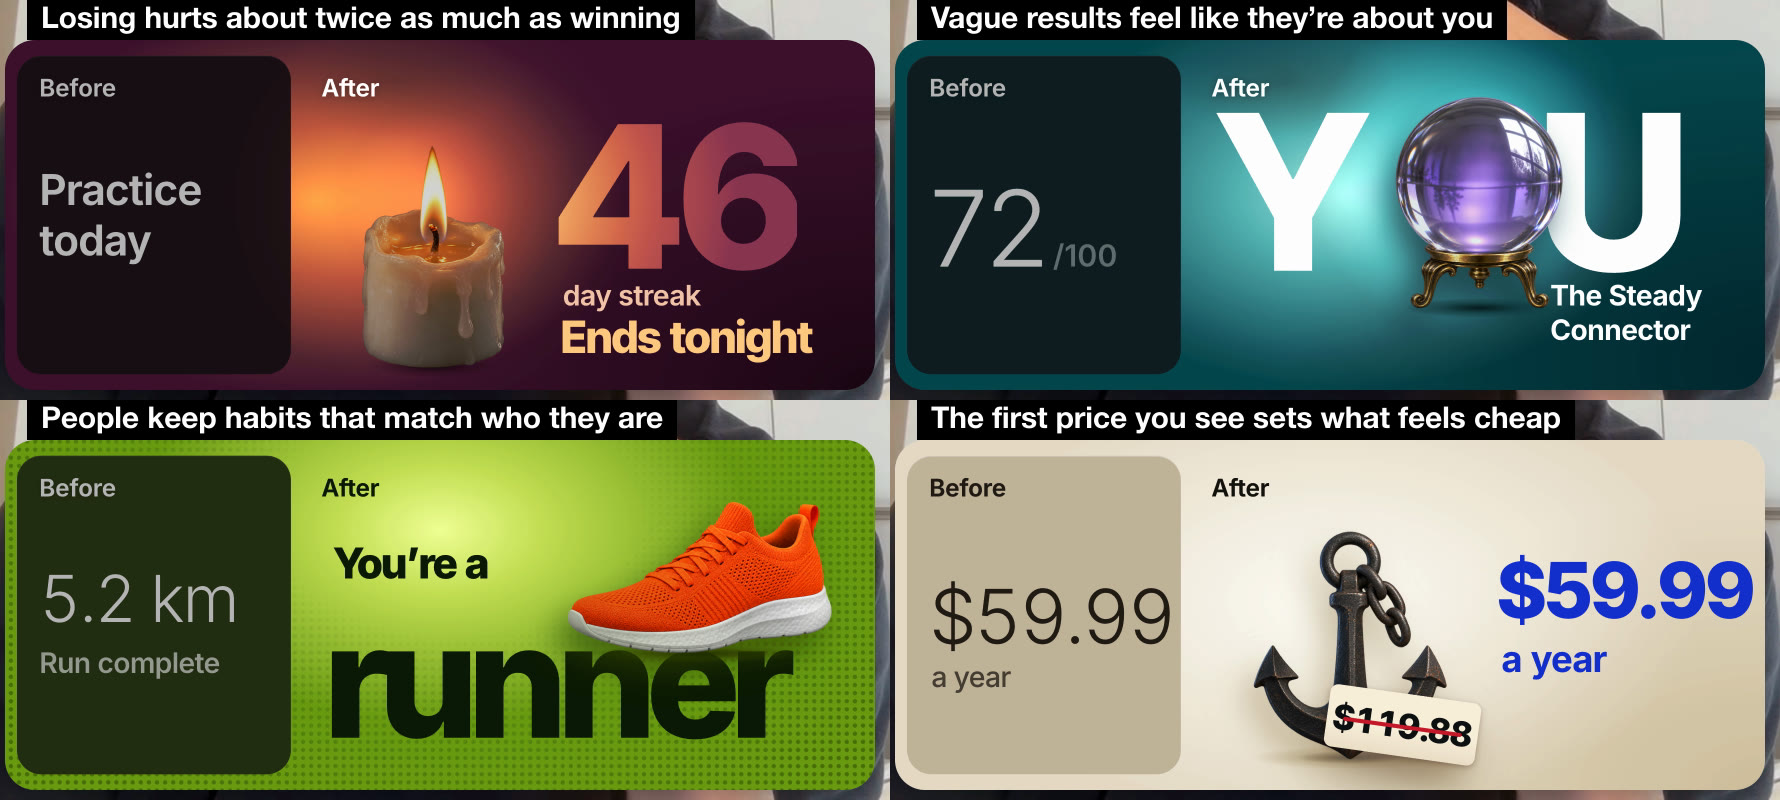
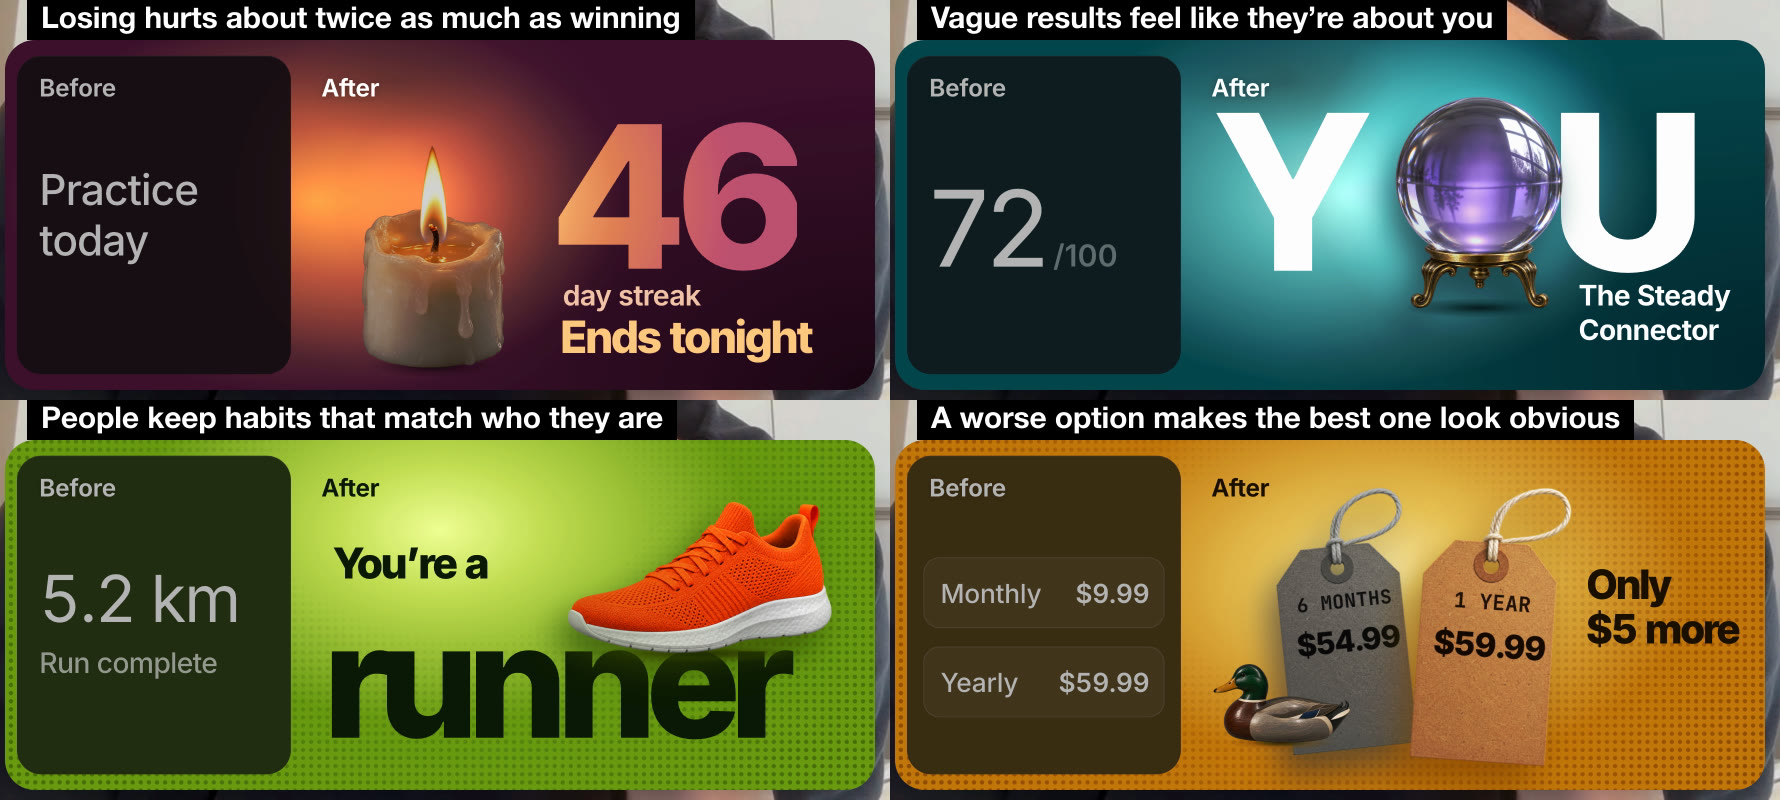
charles-studio-explainers: objects instead of UI widgets, and a second type voice
Round 5 on the 20 psychology principles cards. Never a UI widget on the studio side: a checklist becomes a
receipt that prints, a leaderboard becomes game pieces on steps, plan rows become kraft price tags, and a share
button becomes an enamel pin. Numbers get thin, dot-matrix or mono type, while the Before stays plain regular
weight on a tile that's dark on every card. Also: measure what you place things on, and measure gradient and
dot-matrix type from pixels, since words.mjs can't. Round 5 scored 4 for closeness, so the hill-climb notes
now say when a shared frame has hit its ceiling.

diff --git a/skills/editing/charles-studio-explainers/kit/studio.js b/skills/editing/charles-studio-explainers/kit/studio.js
@@ -109,15 +109,16 @@
       const m = `radial-gradient(64% 105% at ${htAt || f.at}, transparent 30%, #000 92%)`;
       div(card, { x: 0, y: 0, w: W, h: H, style: { backgroundImage: `radial-gradient(circle, ${halftone} 0 1.9px, transparent 2.4px)`, backgroundSize: '8px 8px', maskImage: m, webkitMaskImage: m } });
     }
-    const tile = f.cream ? '#ddd2bf' : `color-mix(in oklch, ${f.deep} 62%, rgb(52 54 60))`;
-    const b = L.B(card, 18, 18, beforeW, H - 36, { r: 24, bg: tile, style: { overflow: 'hidden', boxShadow: `inset 0 1px 0 rgb(255 255 255 / ${f.cream ? 0.5 : 0.1})` } });
-    const bk = f.cream ? '#29231c' : '#fff';
+    // dark on every card, cream included: viewers learn "dark box = Before" (round 5's critic)
+    const tile = f.cream ? '#3b342c' : `color-mix(in oklch, ${f.deep} 62%, rgb(52 54 60))`;
+    const b = L.B(card, 18, 18, beforeW, H - 36, { r: 24, bg: tile, style: { overflow: 'hidden', boxShadow: 'inset 0 1px 0 rgb(255 255 255 / 0.1)' } });
+    const bk = '#fff';
     const lab = (p, x, y, text, c) => L.T(p, x, y, text, { size: 24, weight: 650, color: c, style: c === '#fff' ? { textShadow: '0 1px 8px rgb(0 0 0 / 0.25)' } : {} });
     lab(b, 22, 18, 'Before', bk);
     // a soft shade behind the After label keeps white type readable however bright the world is; dark ink needs none
     if (!f.ink) div(card, { x: beforeW - 8, y: -10, w: 220, h: 110, style: { background: 'radial-gradient(closest-side, rgb(0 0 0 / 0.16), transparent)' } });
     lab(card, beforeW + 48, 36, 'After', f.ink || '#fff');
-    const shade = L.B(b, 0, 0, beforeW, H - 36, { bg: f.cream ? 'rgb(70 50 30 / 0.1)' : 'rgb(0 0 0 / 0.22)', r: 24, style: { opacity: 0, zIndex: 3 } });
+    const shade = L.B(b, 0, 0, beforeW, H - 36, { bg: 'rgb(0 0 0 / 0.22)', r: 24, style: { opacity: 0, zIndex: 3 } });
     L.grain(card, W, H, f.cream ? 0.26 : 0.34, 'overlay').style.zIndex = 30;
     return { b, bk, tick: (t) => { shade.style.opacity = L.P(t, 0.12, 0.34).toFixed(3); } };
   };

diff --git a/skills/editing/charles-studio-explainers/references/craft.md b/skills/editing/charles-studio-explainers/references/craft.md
@@ -19,15 +19,19 @@ The studio look, rule by rule, with the numbers that worked on the 20 Psychology
   | Endowed progress | A printed practice card of ten stamps | The first two are already inked |
   | Barnum effect | A crystal ball | It stands in for the O in a giant YOU |
   | Identity-based habits | A running shoe | It lands on the word "runner", set huge as the ground |
-  | Social currency | An instant photo | It ejects and develops "Top 2%" in its window |
+  | Social currency | An enamel TOP 2% pin | It drops in, clicks down and a glint runs across it: "You'd post this" |
+  | Reciprocity | A kraft gift | Its lid pops off and the score rises out of the box |
+  | Labor illusion | A thermal receipt | It prints up out of the card's edge, a line of work at a time, ending on "Your plan" |
+  | Curiosity gap | A card in an envelope | It slides halfway out: one name shows, the next is cut off by the envelope |
+  | Social comparison | Meeples on numbered steps | You hop up to the step just below the person above you |
 
-- **The test:** someone could describe the card to a friend in one sentence. If the sentence is "a nicer screen", there's no idea yet.
-- **Where no object fits** (a percentage, a leaderboard), make the UI itself a material instead: glass tubes that fill with liquid, glass rows over a photographed medal.
+- **The test:** someone could describe the card to a friend in one sentence. If the sentence is "a nicer screen", there's no idea yet. And the After must change the thing the principle changes: round 5's alarm clock answered "Daily reminder" with a louder reminder, when the principle (implementation intentions) is about adding a time and a place.
+- **Never a UI widget in the After.** A checklist, a leaderboard, price rows, a score card, a share pill or a frosted panel is what Claude builds by default, so on the studio side it reads as the default (round 4's critic). Turn it into the object it stands for: the checklist into a receipt that prints, the leaderboard into game pieces on steps, plan rows into price tags, a share button into a pin you'd wear.
 
 ## The stage
 
 - **The card:** 870x350, radius 30, with the scene as its own background (no white frame). The black tab sits on its top-left edge, inset 22 px, in Helvetica Neue Bold 30. On a long line the tab covers the whole top edge, so objects at rest bleed off the bottom or the right edge, never the top: round 3's anchor ring, cut flat at the top, read as the tab slicing it. Bring moving things in from the right or the bottom too (the running shoe comes in toe first from the right); only a fast drop comes through the top.
-- **Before:** a flat tile at x 18, y 18, 270 wide, in the card's own colour: `color-mix(in oklch, <deep> 62%, rgb(52 54 60))`, or warm grey `#ddd2bf` on cream, with a hairline highlight. It holds one element, what Claude builds by default, in plain Inter at 26 px or more: a bare number, one button, a short list. As the After plays, it dims to about 78%. A graphite block on every colour read as a dead black third (round 2), and three toasts or a stats list was more than a 1.4 s read allows (round 3).
+- **Before:** a flat tile at x 18, y 18, 270 wide, in the card's own colour: `color-mix(in oklch, <deep> 62%, rgb(52 54 60))`, or warm dark brown `#3b342c` on cream, with a hairline highlight. It's dark on every card: viewers learn "dark box = Before", and a light tan tile on the cream cards reversed it (round 5's critic). It holds one element, what Claude builds by default, in plain Inter at 26 px or more: a bare number, one button, a short list. As the After plays, it dims to about 78%. A graphite block on every colour read as a dead black third (round 2), and three toasts or a stats list was more than a 1.4 s read allows (round 3).
 - **The labels:** "Before" and "After" in Inter 650 at 24 px, on one line at y 36: chrome the viewer learns by position. At 32 px they were as loud as the tab (round 3).
 - **After:** the rest of the card, from x about 318. Nothing may cross the "After" label, so start the After's content at y 76 or below near x 316-420. Keep every word 40 px inside the card's edges, and keep the payoff (the prize, the seal) whole.
 - **Words:** the After says its point in three words or fewer ("Built by you", "Fresh start", "See who else"), and some of its words are on screen by 0.3 s. Round 3 had 20-30 words a card, and five cards showed an object and no words at 0.3 s.
@@ -46,7 +50,7 @@ The studio look, rule by rule, with the numbers that worked on the 20 Psychology
   - Put the light on the object (the After's centre-left, `at` about '46% 58%') and let the deep colour fall in behind the type on the right (`deepAt` '100% 92%').
   - Mix the base toward its deep colour (`color-mix(in oklch, mid 64%, deep)`).
   - On a naturally bright family (mustard, chartreuse), use dark ink for the After's words and label instead (`{ deepAt: null, ink }`).
-  - Then run the explainer kit's `words.mjs --only <ids> --times 0.6,1.2`. Every must-read word passes 4.5:1, or it isn't done. The first round-3 pass, lit from the upper right behind the type, put most white headlines at 2-4:1.
+  - Then run the explainer kit's `words.mjs --only <ids> --times 0.6,1.2`. Every must-read word passes 4.5:1, or it isn't done. It can't measure two effects, so measure those from the pixels instead: a gradient clipped to the glyphs (it reads 1:1), and dot-matrix type (it averages the dots with the gaps, reading 4.37:1 for dots that sit at 9.5:1). The first round-3 pass, lit from the upper right behind the type, put most white headlines at 2-4:1.
 - **Light every object (`L.obj`).** A photo cut out and set on a gradient reads as a stock PNG: round 3's critic called "nothing sits in light" the most wrong note. So each object gets:
   - the world's light colour on its lit side and the world's deep colour on its far side, both masked to its own shape (soft-light and multiply);
   - a cast shadow on the backdrop, down and to the left, since every prompt puts the key light upper right;
@@ -65,6 +69,7 @@ The studio look, rule by rule, with the numbers that worked on the 20 Psychology
 
 - **The principle's words are the biggest type on the card:** Inter Tight 800 at 40-104 px, tracked -0.045em ("46-day streak", "$0.16 a day", "You're a runner now").
 - **Before copy is plain Inter:** 300 for big numbers, 600-650 for headings. It should look like the default it is.
+- **Give numbers a second voice:** thin numerals (Inter 250) for prices and gaps, dot-matrix (Doto) for scores and counters, and mono (JetBrains Mono) for small print on receipts, tickets and tags. Keep the Befores in plain regular weight (400-500), so the refined type belongs to the After. Round 4's critic found one bold sans everywhere and the thin numerals all on the plain side. Skip the serif with an italic accent word: it's one of Tobi's four default looks.
 - **Use dot-matrix type (Doto) only at 48 px or more.** At 24 px it reads as noise.
 - **Measure every line against its box before you trust it.** The first passes clipped "/mo", "a day" and a countdown at the card's edge.
 

diff --git a/skills/editing/charles-studio-explainers/SKILL.md b/skills/editing/charles-studio-explainers/SKILL.md
@@ -35,6 +35,8 @@ Load it first. Its contract wins on everything it covers, and this skill only ad
    - an instant photo developing for social currency.
 
    Say the card in one sentence before building it. If you can't, there's no idea yet.
+
+   Never put a UI widget on the studio side (a checklist, a leaderboard, price rows, a score card, a share pill). Turn it into the object it stands for: a receipt that prints, game pieces on numbered steps, kraft price tags, an enamel pin you'd wear. Why: round 4's critic read those widgets as the default Claude builds.
 2. **Photographed materials, never game icons.** Generate each object as a studio product photograph, with real wear, on a transparent background (`references/objects.md`). Why: the first critic's single most wrong note was glossy, toy-like 3D icons. They "read as a mobile-game ad", and the reference's objects (a marble orb, a crystal prism, a card over a tile grid) look photographed.
 3. **Lit, not pasted.** Each object gets:
    - its world's light on its lit side and its deep colour on the far side;
@@ -52,6 +54,12 @@ Load it first. Its contract wins on everything it covers, and this skill only ad
    - Before is a flat tile in the card's own colour, with one element Claude builds by default in plain type at 26 px or more. Never a black block, which reads as a dead third of the card.
    - After is the object on its world. It says its point in three words or fewer, as the biggest type on the card, and some of its words are up by 0.3 s.
    - The labels are 24 px chrome. Why: round 3 put 20-30 words on a card that a phone viewer sees for 1.4 s.
+   - Numbers get a second voice:
+     - thin numerals for prices and gaps;
+     - dot-matrix for scores and counters;
+     - mono for small print on receipts, tickets and tags.
+
+     The Before stays in plain regular weight. Why: one bold sans everywhere was round 4's second biggest note.
    - Words keep 40 px inside the card's edges. The payoff (the seal, the prize) is always whole, and props drawn in code look as real as the photos: paper gets warm stock, grain and a curl shade.
 7. **Four layouts across the set:**
    - the object beside its words;

diff --git a/skills/editing/charles-studio-explainers/references/hill-climb.md b/skills/editing/charles-studio-explainers/references/hill-climb.md
@@ -19,8 +19,9 @@ How to get from "much more interesting" to the reference: directions first, then
   - Round 2: d4 3, d5 4, d6 5.
   - Round 3 (d6 with its critic's fixes, on all 20): 4.5.
   - Round 4 (lit objects, four layouts, cream grounds, three-word Afters): 4. Its sub-scores rose (instant read 5 → 6, principle clarity 6 → 6.5, system 6 → 7), while craft held at 4 and the moves fell from 5 to 4.
+  - Round 5 (objects instead of UI widgets, thin, dot-matrix and mono type for numbers, plain Befores): 4. Craft rose from 4 to 5 and the instant read from 6 to 7, while closeness held.
 
-  Every round, the critic's single most wrong note was a system-wide choice: game icons, then the moving light, then nothing sitting in light, then a default UI loader. Fix those before touching any one card.
+  Every round, the critic's single most wrong note was a system-wide choice: game icons, then the moving light, then nothing sitting in light, then a default UI loader, then a card whose After was only a louder version of its Before. Fix those before touching any one card.
 - **What stopped it:** by round 4 every ask was about the system, not a card. The critic wanted a one-off composition per card, the reference's type range (thin, dot-matrix and serif type) and bespoke material UI instead of components. A shared Before | After frame across 20 cards has a ceiling against a library of one-off pieces. Decide early whether the job is a consistent card system or 20 one-offs, and say which to the critics.
 - **Fresh critics re-anchor.** Each round's closeness score comes from a new judge, so track the sub-scores too: they show what a round actually changed.
 

diff --git a/skills/editing/charles-studio-explainers/references/objects.md b/skills/editing/charles-studio-explainers/references/objects.md
@@ -34,6 +34,7 @@ When the card needs an object in two states (a happy plush and a sad one, a cand
 
 - **Resize each to 512 px** (`<name>-512.png`). That's plenty for a card drawn at 2x.
 - **Measure each object's visible bounds** with `kit/bbox.py` (fractions of the image). Stacking (an arch on two cubes), dropping into a cup or resting on a floor shadow all need the real edges, not the image's.
+- **Measure what you place things on or in:** an envelope's opening (the card slides out above it and hides below it), a step's top (where a meeple's feet go), a pin's enamel (where a glint runs). The 20 Psychology Principles cards measured each from the photo's pixels before placing anything.
 - **When code fills part of an object** (a Polaroid's window, a calendar's page, a screen), ask for the object straight on and square to the frame, then measure that part's bounds (its dark or white pixels) and fit the content to them exactly. A tilted print put the stat off-register, with the window showing on both sides (round 3).
 - **Look at every object on a mid-colour background before you use it.** Reject:
   - garbled text or fake logos;

diff --git a/skills/editing/charles-studio-explainers/README.md b/skills/editing/charles-studio-explainers/README.md
@@ -1,6 +1,6 @@
 # charles-studio-explainers
 
-![Four cards from my 20 psychology principles reel: a candle burned low lighting a giant 46-day streak that ends tonight, YOU with a crystal ball as its O, a running shoe standing on the word runner, and an iron anchor tagged $119.88 beside $59.99 a year on cream](examples/cards.jpg)
+![Four cards from my 20 psychology principles reel: a candle burned low lighting a giant 46-day streak that ends tonight, YOU with a crystal ball as its O, a running shoe standing on the word runner, and two kraft price tags where a decoy duck greys out the 6-month plan so yearly is only $5 more](examples/cards.jpg)
 
 Turns a reel's explainer cards from plain UI mock-ups into cards that look like a design studio made them.
 
